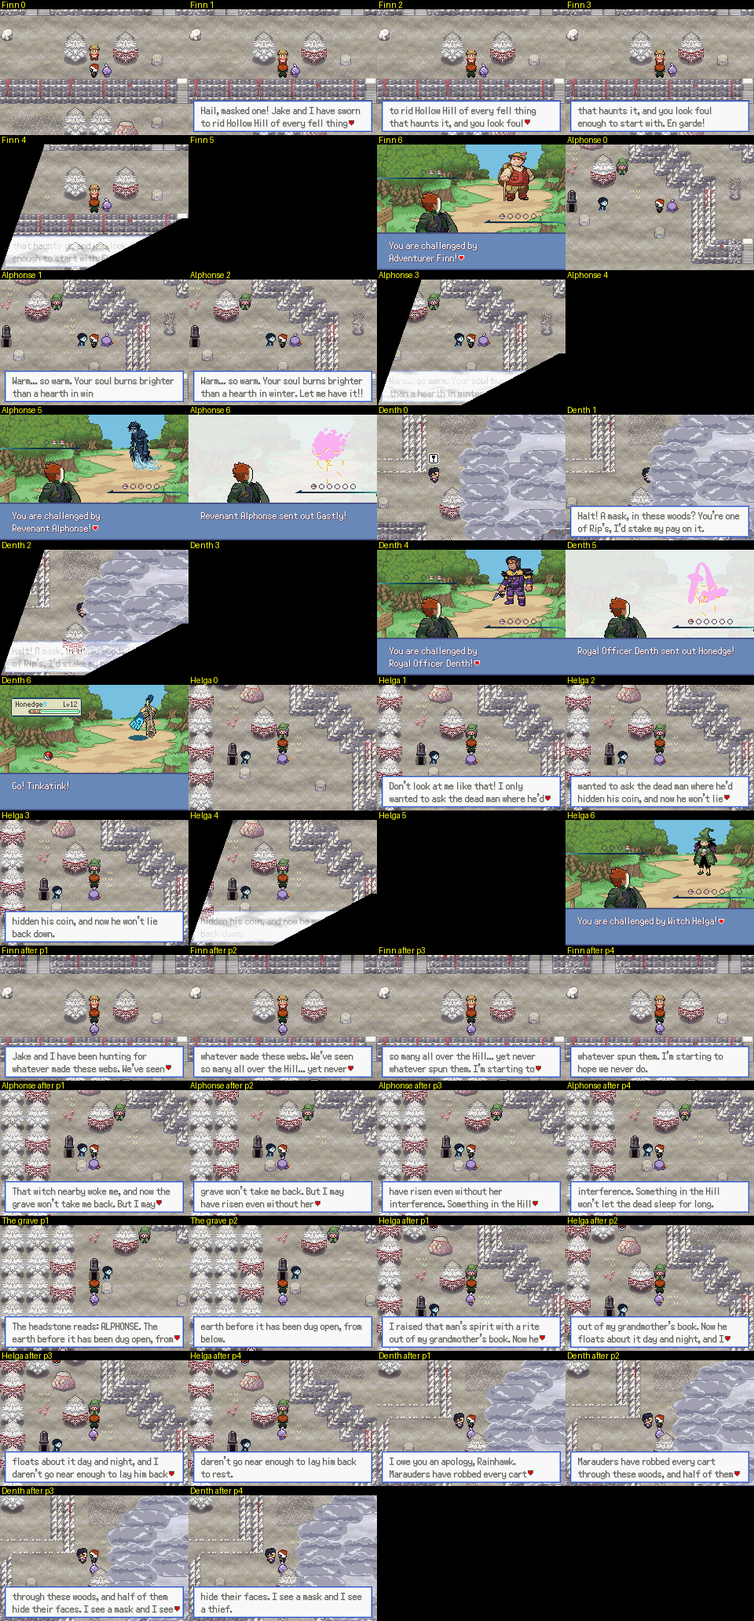
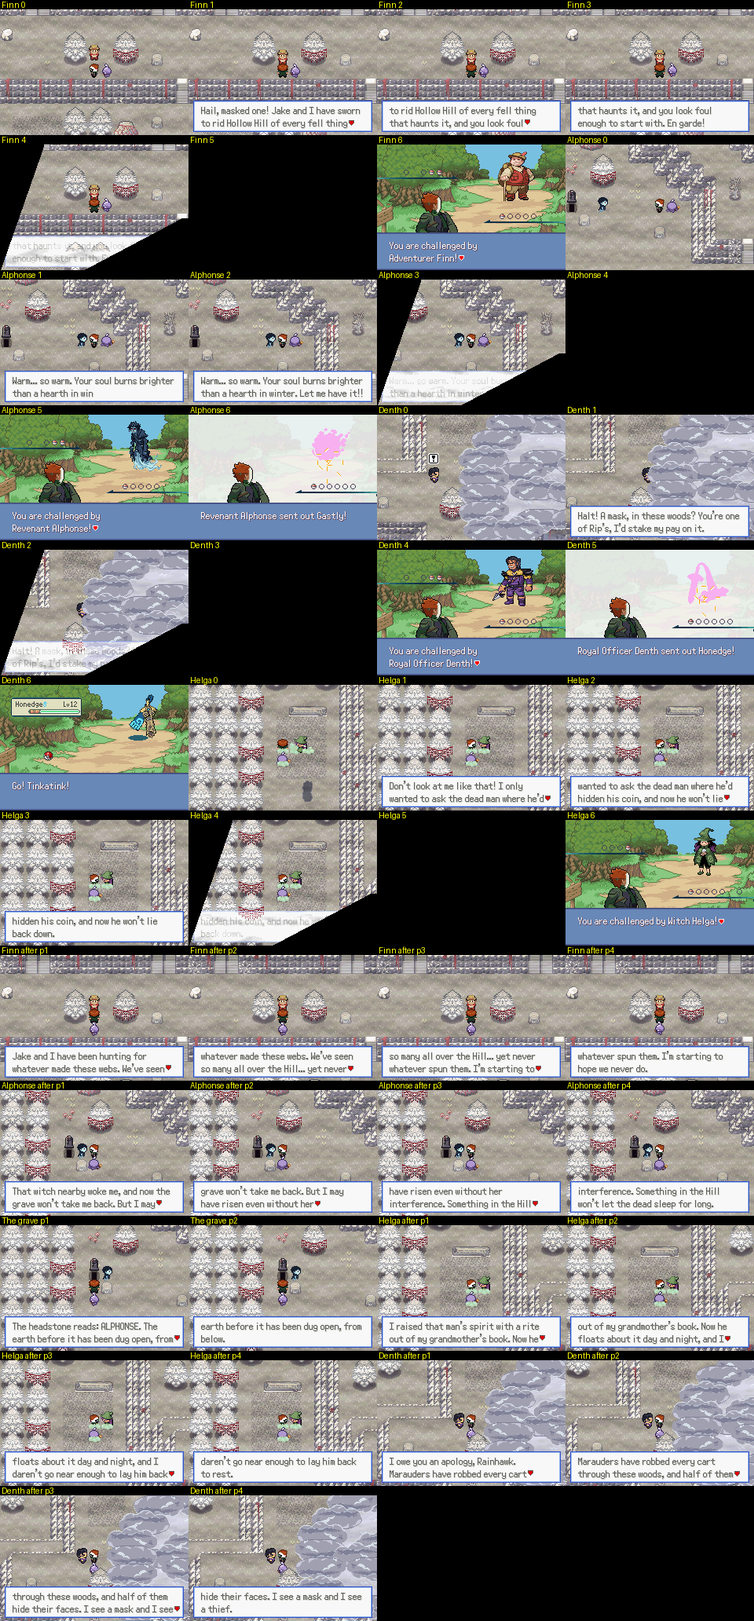
Hollow Hill: Witch Helga moved north, away from Alphonse's grave
User: she was way too close to the Revenant. Now at (8,27), facing left, sight 3,
in the clearing by the fallen log up the west corridor, about twenty tiles north
of the grave. Walked: she spots the player, intro, battle, after-line.

Claude-Session: https://claude.ai/code/session_01FHXnfqnedTHLf5QFbB3MCU

diff --git a/tools/playtest/hollowhill_trainers_walk.py b/tools/playtest/hollowhill_trainers_walk.py
@@ -27,7 +27,7 @@ def encounter(label, approach, steps, n=7, beaten=()):
 encounter('Finn', [(34, 48)], ['LEFT'] * 5)
 encounter('Alphonse', [(13, 46)], ['LEFT'] * 2)
 encounter('Denth', [(22, 36)], ['UP'] * 6, beaten=['TRAINER_DR_HH_ADVENTURER_FINN'])   # the way passes Finn
-encounter('Helga', [(9, 47)], ['UP', 'UP'], beaten=['TRAINER_DR_HH_REVENANT_ALPHONSE'])   # the way passes Alphonse
+encounter('Helga', [(5, 31)], ['UP'] * 4, beaten=['TRAINER_DR_HH_REVENANT_ALPHONSE'])   # the way passes Alphonse
 # after-lines and the grave
 g.restore(HH); g.run(5)
 for t in ('TRAINER_DR_HH_ADVENTURER_FINN', 'TRAINER_DR_HH_REVENANT_ALPHONSE', 'TRAINER_DR_HH_WITCH_HELGA', 'TRAINER_DR_HH_ROYAL_OFFICER_DENTH'):
@@ -36,6 +36,6 @@ g.run(5)
 go('HollowHill', (28, 47)); face('UP'); talk('Finn after')
 go('HollowHill', (7, 46)); face('LEFT'); talk('Alphonse after')
 go('HollowHill', (5, 47)); face('UP'); talk('The grave')
-go('HollowHill', (9, 44)); face('UP'); talk('Helga after')
+go('HollowHill', (7, 27)); face('RIGHT'); talk('Helga after')
 go('HollowHill', (20, 28)); face('LEFT'); talk('Denth after')
 sheet('/home/claude/repo/assets/hollowhill_reference/ingame_hh_trainers_walk.png')

diff --git a/bible/20_chapter1_build.md b/bible/20_chapter1_build.md
@@ -290,7 +290,7 @@ Chapter 1 is the template: once its foundations (mechanics, maps, buildings, NPC
     - **Summit mock v1 (2026-11-25; `tools/art/hollowhill/ruin/compose_summit.py`, `summit_mock_v1*.png`):** Odyssey 3.43's temple front widened to 13 and burst open, cut into a crag on a terrace. **User: "a good starting design, but the temple doesn't look correct. Study the bastion part that leads to the open sky area in monomyth. The peak itself is mostly good but it needs a bit more work and refinement."** **Mock v2 (`summit_mock_v2*.png`; `bastion.py`):** studied MonoMyth's bastion castle (map section 48: its temple precinct 868f44 -> halls 868f48 -> **the ascent 868f4c** -> the bastion top 868f50, whose pillared gallery opens onto the moving sky): the ascent's whole design is **four flights up one axis, each narrower than the one below (23, 17, 11, 3), so the climb funnels the eye to the arcade at the top; a landing between flights; a pair of round columns and a pair of knight statues at every flight; massive stone tiers stepping up either side in lit courses and shaded faces; one side in shadow; moss in the joints.** The summit's north half is now that ascent (x 16-42, rows 0-27 of 868f4c, its walkable cells from its own collision), recoloured onto Hollow Hill's bone and sinister stone (lightness onto a 9-step ramp, its moss to dead weeds); **its arcade's middle arch burst open from inside**, a ragged hole broken out brick by brick up into the wall, the net of blood web across it, stones spilled and blood soaked into the landing: the guardian's lair (door (21, 5)). Audit fixes elsewhere: the court paved with the bastion's own floor and joined to it; the plateau's south half rounded (a superellipse, not a square); the woods below darkened and greyed for depth; fewer blood drips on the rim (they read as fence posts); webs on the colonnade as round webs, not zig-zag ropes; webbed rocks sparser; tall grass in organic patches; the sunk stair toned down. Map 43x49; walk check passes (arrival to the door, every flight, the court, the plinths, both colonnades). **Approved (user 2026-11-25: "looks really awesome").** Open, asked: whether the burst arch later opens onto a sky area beyond (as MonoMyth's bastion top does) or stays a closed lair; built as a closed lair until answered.
     - **Route 11, stage 2: people and dialogue (2026-11-27; user: "lets go with that", the layered process: maps, then people and dialogue, trainers, side quests and rewards, then the story beats, polishing until the chapter is complete).** From docs/route11_hollowhill_draft.md §2 (approved): **the farmer** in his rows (`OBJ_EVENT_GFX_DR_FARMER`, Route 11 (45, 12), looking about; the Mareep theft and the name Rougehand); **the farmhouse wife** (Commoner Woman A, (6, 6) by the table; before the theft: the Templar lass with the black-and-white bird; after it, on `FLAG_DR_R11_THEFT_SEEN` (FLAG_UNUSED_0x912, set later by the Beat 5 scene): the shutters and the marching in the fog) and **daughter** (Kid A, (10, 5), wandering a step; the cathedral in the mountains); **Fisher Tam** on the west beach (`TRAINER_DR_R11_FISHER_TAM` 858, class Fisher, the cast's Fisher pic and walker; Krabby Lv.9 and Corphish Lv.10, IVs 10; (52, 29) facing east, sight 4; after: the thing that moves past the cove at night). Walked (`tools/playtest/route11_people_walk.py`, `assets/route11_reference/ingame_route11_people.png`): every line, both of the wife's, Tam spotting the player, his intro and the battle, his after-line. **Harness notes:** `SaveBlock1.flags` is at offset 5260 now (older walk scripts used 5220), and FLAG_UNUSED_0x909 is SYSTEM_FLAGS + 0xAF (the names do not match their numbers), so FLAG_DR_STATUE_AWAKENED is flag 0x90F. **Trainer lines carry no label (user 2026-11-27):** the engine's automatic trainer-class speaker ("Fisher:") is gone for every trainer (`src/battle_setup.c`); named characters set their own name in their scripts; the Citadel Tavern's barkeep lost his "Barkeep" label too. **Trainer space (user 2026-11-27: old saves don't matter):** `MAX_TRAINERS_COUNT` 864 -> 1024 (every system flag moved up 0xA0; the FLAG_UNUSED_0x9xx names no longer match their numbers; harness scripts take numbers from `tools/playtest/dr_consts.py`, which reads the headers). **The Emerald trainers are deleted (user 2026-11-27):** 626 ids and parties gone, ours and Dreamstone Mysteries' 232 renumbered (TRAINERS_COUNT 233 of 1024); the Emerald names are TRAINER_NONE aliases in `opponents_emerald_legacy.h` until the unreachable Emerald maps are cleared (docs/hoenn_trainer_cut_list.md).
     - **Items in the wild: Route 11, the farmhouse, Hollow Hill (2026-11-27; user: no area or NPC without purpose; the farmhouse needs a reason to go in; place items as Dreamstone Mysteries and MonoMyth do, the user judges them in play-testing).** Reference: Dreamstone Mysteries puts 1-4 Poké Balls per route at dead ends, nooks between trees and the ends of side passages, plus 2-3 hidden items in grass, flower beds and rocks (`/tmp` survey of its 47 item maps; its TMs are generous). **Placed:** the farmhouse, a hidden **Revive** in the hay bales (10, 6); Route 11, **Potion x2** in the nook between the south woods' trees (28, 29), **Poké Ball x3** in the nook above the west woods' grass (4, 14), **Big Pearl** in the far corner of the east beach (79, 28) (the beach's reason), hidden **Pecha Berry** in the flower bed (53, 23), hidden **Nugget** in the cliff by the bridge's west end (62, 23); Hollow Hill, **Escape Rope** (6, 39, the west woods' dead end), **Spell Tag** (34, 13, the north woods by the rock), **Super Potion** (19, 38, ring 2's west nook), **Awakening** (25, 7, a nook between the north woods' trees), hidden **Revive** and **Ether** in two burrow hollows (16, 52) and (44, 25). The Marauders' Nugget waits for the 1v2 clearing's scene. **Our own flag block:** `DR_FLAGS_START` = DAILY_FLAGS_END + 1, 512 flags (`FLAG_DR_ITEM_<area>_<item>`), so new content never borrows Emerald's or Dreamstone Mysteries' numbers. Walked (`tools/playtest/r11_hh_items_walk.py`, `assets/route11_reference/ingame_items_walk.png`): all twelve found. Hollow Hill has four stray walkable cells no one can reach ((10, 17-18), (12, 15), (14, 14)); the first ball was moved off them. (A hidden item on open ground can be masked by the follower standing on it; ours are on solid cells.)
-    - **Hollow Hill, stage 2: four trainers and a grave (2026-11-27; user: "at least three more trainer fights in Hollow Hill").** Trainer ids 233-236 (`TRAINERS_COUNT` 237): **Adventurer Finn** (Vanillite 11, shiny Maschiff "Jake" 13) at (28,46) on ring 1's path, facing down, sight 3; **Revenant Alphonse** (Gastly 12, Shedinja 20) at (6,46) beside his grave, facing right, sight 6; **Witch Helga** (Braixen 14) at (9,43) just north of them, facing down, sight 2 (first placed on the 2x2 solid block at (7-8,43-44), where she could neither see nor be spoken to); **Royal Officer Denth** (Honedge 12, Nidorino 14) at (19,28) on the ring-2 path, facing right, sight 3. All IVs 10. Lines are the user's (2026-11-27), in `HollowHill/scripts.pory`. **The grave** is a new 16x32 object, `OBJ_EVENT_GFX_DR_GRAVE` (323; palette tag 0x1134; art `tools/art/hollowhill/grave/grave.py`: headstone with a cross, a crack and a blood drip over an open pit) at (5,46); its sign: "The headstone reads: ALPHONSE. The earth before it has been dug open, from below." **Walked in the emulator** (`tools/playtest/hollowhill_trainers_walk.py`, sheet `assets/hollowhill_reference/ingame_hh_trainers_walk.png`): each trainer spots the player, speaks his intro and opens the battle; each after-line and the grave text read correctly. Trainer intros carry no class prefix: `gSpeakerName` is no longer set from the trainer class (§16.15 rule 5).
+    - **Hollow Hill, stage 2: four trainers and a grave (2026-11-27; user: "at least three more trainer fights in Hollow Hill").** Trainer ids 233-236 (`TRAINERS_COUNT` 237): **Adventurer Finn** (Vanillite 11, shiny Maschiff "Jake" 13) at (28,46) on ring 1's path, facing down, sight 3; **Revenant Alphonse** (Gastly 12, Shedinja 20) at (6,46) beside his grave, facing right, sight 6; **Witch Helga** (Braixen 14) at (8,27), facing left, sight 3: in the clearing by the fallen log, up the west corridor about twenty tiles north of the grave (user 2026-11-27: she was "way too close" to Alphonse at (9,43)); **Royal Officer Denth** (Honedge 12, Nidorino 14) at (19,28) on the ring-2 path, facing right, sight 3. All IVs 10. Lines are the user's (2026-11-27), in `HollowHill/scripts.pory`. **The grave** is a new 16x32 object, `OBJ_EVENT_GFX_DR_GRAVE` (323; palette tag 0x1134; art `tools/art/hollowhill/grave/grave.py`: headstone with a cross, a crack and a blood drip over an open pit) at (5,46); its sign: "The headstone reads: ALPHONSE. The earth before it has been dug open, from below." **Walked in the emulator** (`tools/playtest/hollowhill_trainers_walk.py`, sheet `assets/hollowhill_reference/ingame_hh_trainers_walk.png`): each trainer spots the player, speaks his intro and opens the battle; each after-line and the grave text read correctly. Trainer intros carry no class prefix: `gSpeakerName` is no longer set from the trainer class (§16.15 rule 5).
     - **The summit built and walked (2026-11-25; `tools/art/hollowhill/ruin/build_summit.py`):** a new map **`MAP_HOLLOW_HILL_SUMMIT`** (`HollowHillSummit`, 43x49) on its own tilesets (`hollow_hill_summit(_tiles)`: 988 tiles, 383 metatiles, 7 palettes); Hollow Hill's music, fog (its thinned fog, picked by map section) and map section. Walkable = what the mock's walk check reaches (the court, the bastion's own walkable cells from MonoMyth's collision, the sunk stair), one level; the bastion's columns on the top layer from MonoMyth's own top layer (its triple-layer entries 8-11), the plinths', trees' upper parts and the webs too. **The lair's door (the burst arch, (21, 5)) is solid for now** (the guardian's quest opens it). **Warps:** the sunk stair's lower step (20-22, 42), `MB_DEEP_SOUTH_WARP`, down to Hollow Hill warp 0, **the sealed door's forecourt (29, 36)** (a landing on plain ground: no trigger); arriving on summit warp 1 the player faces north and steps up. **Nothing leads up yet** (the sealed door stays shut in Chapter 1; the tunnel is a later map). **Walked** (`tools/playtest/hollow_hill_summit_walk.py`, on a test ROM whose Route 11 farmhouse door was pointed at the summit for the test, then restored): up out of the sunk stair, the stele (it holds), round the plinths, both colonnades, up all four flights to the landing under the burst arch (the arch holds), the top landing, back down the sunk stair to Hollow Hill (29, 36). All ok (`assets/hollowhill_reference/ingame_summit_walk.png`); save states regenerated; every standing walk passes. ROM 96.23%.
     - **The way in and the stone's colour (user 2026-11-25, on the sunk stair in the game: "this doesn't look good"; "you're coming up through a door to get into those outdoor ruins"; "you're basically going through some liminal path that goes briefly inside of Hollow Hill to get to the summit ... we don't see the liminal path, just when you emerge up into the ruin"; and "recolor the ruin tileset to something more like a pale brown or something more interesting than the white-ish color"):** **no tunnel map**: Hollow Hill's sealed door (once it opens, later) warps straight to the summit. **The sunk stair is gone; two squat gatehouses** in the bastion's stone stand at the court's north corners against the bastion's foot (5x4 each: a shaded flat roof behind a row of merlons, some broken; a front of the bastion's coursed blocks, lit west edge, shaded east; an arched door at the foot, doors facing south, open ground before them). **The player emerges from the west gatehouse's door** ((11, 32), `MB_NON_ANIMATED_DOOR`, summit warp 0 <-> Hollow Hill warp 0 at the sealed door's forecourt (29, 36)), stepping out south into the court; **the east gatehouse's door is choked** with fallen stones and web. The colonnade moved out to x 9 and 33 (clear of the doors), rows 35-41; the court runs on to row 42; the map 43x51. **The stone is now a pale brown** (`bastion.RAMPS['pale_brown']`: warm light browns, the shadows going to Hollow Hill's violet-grey), used by the bastion, the paving, the gatehouses, the columns and the plinths; compared with a sandstone and the old ashen white (`assets/hollowhill_reference/summit_stone_colours.png`). Rebuilt (999 tiles, 399 metatiles) and walked on a test ROM (out of the gatehouse door, the stele, the plinths, both colonnades, the causeway's end, the choked east door holds, all four flights, the arch holds, back in at the gatehouse door to Hollow Hill (29, 36)): all ok (`ingame_summit_walk_v2.png`); save states regenerated; every standing walk passes. **Approved (user 2026-11-25: "look awesome").**
 - **Mirroh (user 2026-11-20/21; zone plan v2, `tools/art/mirroh/layout_sketch.py`, `assets/mirroh_reference/`).** Where Crown's medieval architecture really starts. **A mix of a Crown village and MonoMyth's Fort Elderflower** (user): a **walled city climbing the slope** of the massif in three terraces (Elderflower's crenellated terrace walls that jog with the slope, stone stairs staggered so the way winds up), Crown's timber and thatch cottages with fenced gardens below. **Light snow in the lower town, deeper uphill. Gothic, gloomy and wintry:** roofs recoloured to dark slate, iron lanterns, Crown's dragon statues darkened to gargoyles, banners in House Langerin's colours, a graveyard. **Ghost Grey's Opal Village** (user: loves its reflecting ice; study its landscape and indoor/outdoor tiles): sheets of **reflecting ice** sunk in brick rims (one in the square, one in the lower town), **dark icy streets with sparkles**, snowbanks held by brick retaining walls; its houses and museum halls for the interiors (greyscale: to be coloured). Zones: outside the **south gate** Hollow Hill's bone woods carry on (the seam), thinning to snowy pines; **lower town** (cottages, gardens, ice sheet); **middle terrace**, the square (the **Tavern**, like Pelluca's, **recoloured to the dark slate look**, user; a market hall, stalls, the ice sheet); **upper terrace** (deep snow): a gothic chapel and its graveyard (the seed of DM's Mirroh Base Camp graveyard), **House Langerin's town house** (user: yes). **Two ways out north (user):** a **north-west path** further north out of town, and a **separate north-east path to the Necropolis** (its own map uphill). **Gatehouses (user 2026-11-21):** Mirroh is guarded: people may not come and go as they please. **Two walk-through gatehouse buildings with guards** (enter one side, pass the guards inside, leave by the other; interior maps): the **south gatehouse** between Hollow Hill and the city proper, and the **north-west gatehouse** on the route toward the mountain, the Templar HQ and beyond. The **north-east path to the Necropolis is open** (no gate; the Necropolis keeps its own entrance). **Plan approved by the user ("basically perfect").** **Gates, decided (user 2026-11-21):** the **south and north-west gatehouses are roofed gatehouse buildings** in the style of Ghost Grey's and Crown's walk-through gates (slate roof behind the crenels, a stone front with banners, a portcullis door between lanterns, round towers either side; Crown's castle gate restoned in Elderflower's stone). The south one's far door, on the city side, is **a short flight of steps up from the gatehouse** (the city is uphill; user: "yes"). Their **hallway maps** follow North Edelweiss's gate hallway (MonoMyth): a dark doorway at the top, a crimson runner, guard desks facing each other, benches and plants, the mat at the foot, in Mirroh's cold stone (`tools/art/mirroh/gate_hall.py`). **The north-east way to the Necropolis is a standalone skull gate** (user's idea: Elderflower's skull keep door, "rebuilt as a standalone gate with a new top"): the skull arch under a crenellated walk between two round towers capped with the gothic spires of Crown's cathedral; no guards; you walk through the dark arch onto the Necropolis map. **Revised (user 2026-11-21):** both gatehouses take **the towered style** (option B: three-wide round towers a row taller than the gate, capped with the Necropolis gate's spires; no steps and no mat (a mat against the roof read wrong): the south one's far door is where the city's cobbled lane runs into its back), and **between the towers the real roof of Crown's cathedral** (its metal-sheet roof as it runs back between the cathedral's spired towers, cut out and widened at mid-slope), **in copper**, over Crown's gate core (pillar, lantern, portcullis, lantern, pillar, two banners); 14 wide (user: no roof at all looked strange; a drawn roof did not look like a natural part of the gate). **No way round (user 2026-11-21: players must not sneak past Mirroh):** the three columns either side of the walls, from the top of the map to the city wall's foot, are closed by the massif's pinewood and rock (big and small pines, snow-buried rocks; every cell solid. user 2026-11-22 review: the one-row rock ridges read as slabs of cliff stacked in the trees and were taken out: all pinewood), and the **city's north wall** runs along the top from wall to wall, broken only by the north-west gatehouse and the Necropolis gate. The mock checks it: from Hollow Hill nothing is reachable past the south gatehouse, and from inside the city the top edge is reachable only through the gates. **Route 13 forks (user 2026-11-22):** north from Mirroh's north-west gatehouse, Route 13 **splits partway**: one branch climbs to **Mt. Mirroh**, a side branch leads to **Templar Headquarters** (off the main path; in Chapter 1 the player can visit or skip it). The illustrated empire map draws it as one road Mirroh -> Templar HQ -> Mt. Mirroh (Route 15 branching east above HQ); the fork supersedes that for the game. Zone plan v1: `tools/art/route13/layout_sketch.py`, `assets/route13_reference/route13_sketch_v1.png` (40x64; the gatehouse's north face at the foot; a switchback round a ledge band; a frozen tarn; the fork plateau with a Templar waystone and signpost; the Templars' cobbled pilgrim road NE to HQ, a rough trail up rock steps NW to Mt. Mirroh; the massif's spur between them). **Zone plan v3 (user 2026-11-22: v1 too short; study MonoMyth's northern routes; a tad longer before the split):** 40x124, after MonoMyth's Routes 17/20/22/23 (terraced climbs of stepped rock walls with stone stairs, real pine forests with clearings, its blue ice grass, boulders, rock arches, frozen puddles; Route 23 shares Fort Elderflower's tilesets): out of Mirroh's wall into a forest with a clearing (a hidden glade beside it), terraces I (four tiers, a stone stair), a high meadow with the tarn, a rocky defile with rock arches and a frozen stream under a log bridge, terraces II (switchback stairs), the fork; the HQ branch through a pinewood, the Mt. Mirroh branch up six steep terraces. `assets/route13_reference/route13_sketch_v3.png`. **Route 13 built and walked (user 2026-11-22, mock v2 approved):** `Route13`, 40x128 (122 rows of route, then 6 of Upper Mirroh as built, as scenery: **the north-west gatehouse built into the city wall**, the wall-walk either side, its spired towers and copper roof in the wall line, and the way in is the road's last two cells on the snow at its roof's peak (x 19-20, row 122): you walk south off them into the gatehouse. user 2026-11-22: the wall had run in front of the gatehouse, as if it stood behind it; then a doorway drawn into the roof's peak left the player standing on the roof. **MonoMyth's convention for a building entered from its north (measured from its ROM, every outdoor warp into the top of an interior):** its gatehouses on Route 14, Route 28, New Old Bay City and South Edelweiss, and Old Pueblo's house, draw no door at all; the warp is the route's own ground, its last row before the building's top edge (`assets/route13_reference/ingame_north_door_vs_monomyth.png`)). The ground round its spires and above its roof's slopes is Route 13's snow, both sides alike (user 2026-11-22: right of the peak it had been Upper Mirroh's dusted slate paving): found exactly by drawing the gatehouse with Mirroh's own `gatehouse()` on snow and on magenta and taking every pixel that differs as ground (`route13_v2.gate_ground`; `assets/route13_reference/ingame_arrival.png`)). Composed by `tools/art/route13/route13_v2.py`, built by `build_route13.py` (its own tileset pair; border: Elderflower's small pines, so woods show past the edges). From the foot: the passage in Mirroh's north wall (south arrow warps down into the north-west hall, whose top doorway now leads up here: the road is open); a forest with a clearing, the cobbled pilgrim road and a hidden glade; **terraces I and the defile with terraces II lifted whole from MonoMyth's Route 22** (its rows 57-74 and 15-46, with its own collision, side-stairs and rock stairs: MonoMyth's level design as well as its art, credit and permission before release); the high meadow (the tarn, ice grass, boulders, rock arches); **the tarn's outflow** (user 2026-11-22 review: the stream had run flat across the defile's three ledge levels and through two cliff faces; moved): out of the tarn's east shore, two wide, stepping down a row every few columns east across the flat meadow and out through the treeline (a boulder on each bank closes the bank to the map's edge); still water froze hard (the tarn is walkable ice) but the outflow runs under thin, darker ice you cannot stand on, so the trail crosses on the log deck (x 19-21, rows 73-74; the logs over the ice); the defile is MonoMyth's ledges again, no water; the fork: **the Templars' cobbles start at the top of the central stairway** and run north-east through a pinewood to the Templar HQ exit (x 32-34), while **the wild trail to Mt. Mirroh breaks off unpaved** into **a switchback climb**: six contour walls that jog with MonoMyth's corner pieces, unbroken from trees to trees, their stairs alternating sides (x 11, 4, 11, 4, 10, then 8) to the Mt. Mirroh exit (x 7-10). Both top exits closed until those maps exist. Tall grass: MonoMyth's ice grass (behaviour 0x5a there, our MB_TALL_GRASS). **Review pass (user 2026-11-22: "another set of passes on everything... inconsistencies and terrain that doesn't make sense"):** Route 13: the stream moved (above); the pale icy-track squares on the terraces and by the waystone (hard-edged, read as blank tiles) removed; the paste seams mended (a hedge of small pines where MonoMyth's forest bottoms had no tops at row 81; a half boulder and the feet of two walls that ran up off the paste at row 34 cleared); the columns either side of the pasted map stacked small pines (their rock-and-snow fill had snow cells that were invisible walls). MonoMyth's pines standing before its ledges (its own pine-over-cliff metatiles 0x110, 0x138-0x141: a tree in front of a cliff face hides part of it) are right and kept. Mirroh: the flank ridges out (above); the lower town's pond laid out by hand (five across, corners cut, two cells of snow bank all round; at 5x3 its drifts had left a square of ice). Interiors: the Cottage's and the Specialty Shop's exit mats moved from the black under the floor onto its bottom row, as in the other rooms (arrival (5, 6) and (6, 8)); the shop's counters (above). Walked in the game after: Route 13 end to end (`assets/route13_reference/ingame_review_fixes.png`), Mirroh's chain, all seven interiors. Walked in the game: the gate, the clearing, the glade, both terraces, the tarn, the bridge, the fork, up the switchbacks to the Mt. Mirroh exit, along the road to the HQ exit, and back down into Mirroh (`assets/route13_reference/ingame_route13_walk.png`). **Stage 2 (user 2026-11-22): at least two enemy trainers on the switchback ascent to Mt. Mirroh** (the ledges walked end to end make natural sight lines). **Mirroh's interiors (step 4; user choices 2026-11-21/22, mock v3 approved), built and walked:** each its own map and tileset pair, lifted by `tools/art/mirroh/interiors.py` (picture, collision and exits from the source) and built by `build_interiors.py`. **Tavern** (`MirrohTavern`, the town's Pokémon Center): Pelluca's Seaside Tavern room recoloured colder, its fire left warm; the core staff where Pelluca's stand (the shared healer, Sage and Caretaker; a barkeep with Mirroh's first-pass stock, `[OPEN]`); the bar is a counter (talk across it); `HEAL_LOCATION_MIRROH` (41) outside its door, Mirroh's respawn and fly point. **No guest room** (user: Taverns do not need one). **Chapel** (`MirrohChapel`): Crown's church nave (map 6.2) in Mirroh's cold stone, the runner copper, the pew cushions dark copper; the gold altar and Crown's cobwebs kept. **House Langerin's reception hall** (`MirrohLangerinHall`): MonoMyth's Elderflower long hall (0x86B260) in dark oak, the long table, the Tavern's lit hearth at its head between two copper skull banners (Kimaris's). **The specialty shop** (`MirrohSpecialtyShop`, §16.5 item 4): Crown's stocked room (map 7.5), its rug copper; **its two keepers' counters** (user 2026-11-22 review: it had none): runs of the Mirroh Tavern's bar in the shop's own desk wood, in place of its two writing desks: the dealer's at row 4 (x 1-3, he stands behind at row 3), the Egg salesman's at row 3 (x 8-10, behind at row 2), both MB_COUNTER, the space behind each closed (a bust beside the dealer's); the keepers themselves come in stage 2. **Three homes, each with a bed** (user 2026-11-22: homes people live in need beds; Crown's inn bed, map 7.8): the **townhouse** (`MirrohTownhouse`, the wealthier home: MonoMyth's study 0x86B2D0 in dark walnut, a lit hearth in place of the sofa, a copper rug, the bed on the left wall), **Crown's cottage** (`MirrohCottage`, the herbalist room map 18.1, cauldron kept, no candelabra, the bed on the left wall), the **snowy house** (`MirrohSnowyHouse`, MonoMyth's Elderflower room 0x86B1F0 in Pelluca's warm oak, the bed on its right wall). The homes are warm oak and walnut against the cold outside; the chapel and Langerin's hall carry the cold stone and the copper. Doors: non-animated doors on the buildings (warps appended after each map's own, so other maps' warp ids stay put); you leave by the door you came in at. Walked in the game: in and out of all seven, the innkeeper across the bar (`assets/mirroh_reference/ingame_interiors_walk.png`, `interiors_built.png`). Pelluca reviewed for beds: every home a door reaches has one. **The north-west gatehouse's door (user 2026-11-21: it looked raised, as if you could not go north through it):** its base course ran on under the portcullis and the door was set on it; now, as at the south gatehouse, the square's paving runs in under the opening (x 12-15) and the door is the doorway's last row ((13-14, 9)); its lamps flank the approach at x 11 and 17 (one had stood in front of the door) and the small pine there moved aside. Walked in the game: in, up the hall to the closed road, and back out. **The lower town, rearranged (user 2026-11-21: the houses were squeezed against the south wall, their doors a thin strip from it, while the ground under the terrace stood empty; buildings must be easy to get into):** all four houses stand under the terrace with their doors on one row, and the street runs along in front of them: **Crown's long townhouse at the top centre, on the south gate's axis** (through the gate, its door is straight ahead across the street), Crown's small cottage and shop flanking it inside the two stairs, Elderflower's snowy house in the far west, the frozen pond in the far east; both stairs come straight down to the street, the lane from the gate joins it under the townhouse door; no fences before any door; along the south wall only a few pines and a bench. Walked in the game to every door and both stairs (`assets/mirroh_reference/ingame_lower_doors.png`). **The apron before the south gate is closed too (user 2026-11-21: you could walk off both edges there):** the same three-column pinewood strips carry on from the wall's foot down to Hollow Hill's wood (`mirroh_v3.flanks_apron`), the snow drifting deep against them and thinning toward the lane; and Mirroh Gate's border (what the camera shows past the map's edges) is Hollow Hill's bone wood, in step with the wood in the map, not snow (`assets/mirroh_reference/ingame_gate_apron_edges.png`). **Snow and stone (user 2026-11-21: more fluid and natural, not big blocks of snow):** on the paved terraces the snow lies in ragged drifts of every size (smooth noise at two scales, a little deeper toward the walls), swept clear along the ways people walk (stairs, doors, gates), and the paving round the drifts is **dusted** (a few pieces of paving with snow specks, thicker next to the drifts, thinning out), so the drifts fade into the stone; deeper on the sacred terrace. The ice sits in rounded, uneven pools, the snow drifting straight onto it; the lower town's cobbled lanes wander and vary in width. **The fortress stone (user 2026-11-21):** every wall, tower, parapet, stair and both gatehouses (and the Necropolis gate) in **one copper-shaded stone**, a cold grey warmed toward copper, to go with the copper roofs (`cstone`, mapped by lightness from Elderflower's stone; the snow on the crenels and the dark slate paving kept); the gatehouse roof runs in behind its towers (no gap at its sides). **Copper is Mirroh's main colour and House Langerin's crest's** (user): used as the contrast to the dark slate and the snow wherever it makes sense: the gatehouse roofs, the banners (Crown's purple ones in copper), the chapel's roof (Crown's verdigris roof in copper, a little green left in its seams), House Langerin's town house roof, the hallway runners and mats (copper rather than red: red is generic). **Mock v3 (2026-11-21, `tools/art/mirroh/mirroh_v3.py`):** the city as Elderflower-style terraces drawn from a level map (each terrace narrower than the one below, its own crenellated front wall with round-tower ends, parapets down its sides, its paving shaded under them), snow lying on the paving in drifts, the reflecting ice set in snowy yards (the snow drifting onto the ice, no rim), cobbled lanes in the lower town; every borrowed building cut out of its source cleanly (only the source's true ground removed).

diff --git a/docs/route11_hollowhill_draft.md b/docs/route11_hollowhill_draft.md
@@ -82,7 +82,7 @@ Engine note: the Patch swaps a normal ability for the hidden one, and from the h
 - Defeated: Mathematical! You fight like a hero out of the old songs.
 - After: Jake and I have been hunting for whatever made these webs. We've seen so many all over the Hill... yet never whatever spun them. I'm starting to hope we never do.
 
-*The southwest woods: a grave, a Revenant and the witch who woke him.* A lone gravestone in the southwest woods (a new object: Hollow Hill's tiles are full); **Alphonse** hovers beside it and floats up to the player who strays into his sight; **Helga** keeps her distance behind the trees nearby.
+*The southwest woods: a grave, a Revenant and the witch who woke him.* A lone gravestone in the southwest woods (a new object: Hollow Hill's tiles are full); **Alphonse** hovers beside it and floats up to the player who strays into his sight; **Helga** keeps well away, in the clearing by the fallen log about twenty tiles up the west corridor.
 
 *Revenant Alphonse* (Gastly Lv.12, Shedinja Lv.20: Wonder Guard walls anything without a super-effective hit, and is worth a lot of experience to a player who has one).
 - Before: Warm... so warm. Your soul burns brighter than a hearth in winter. Let me have it!!
